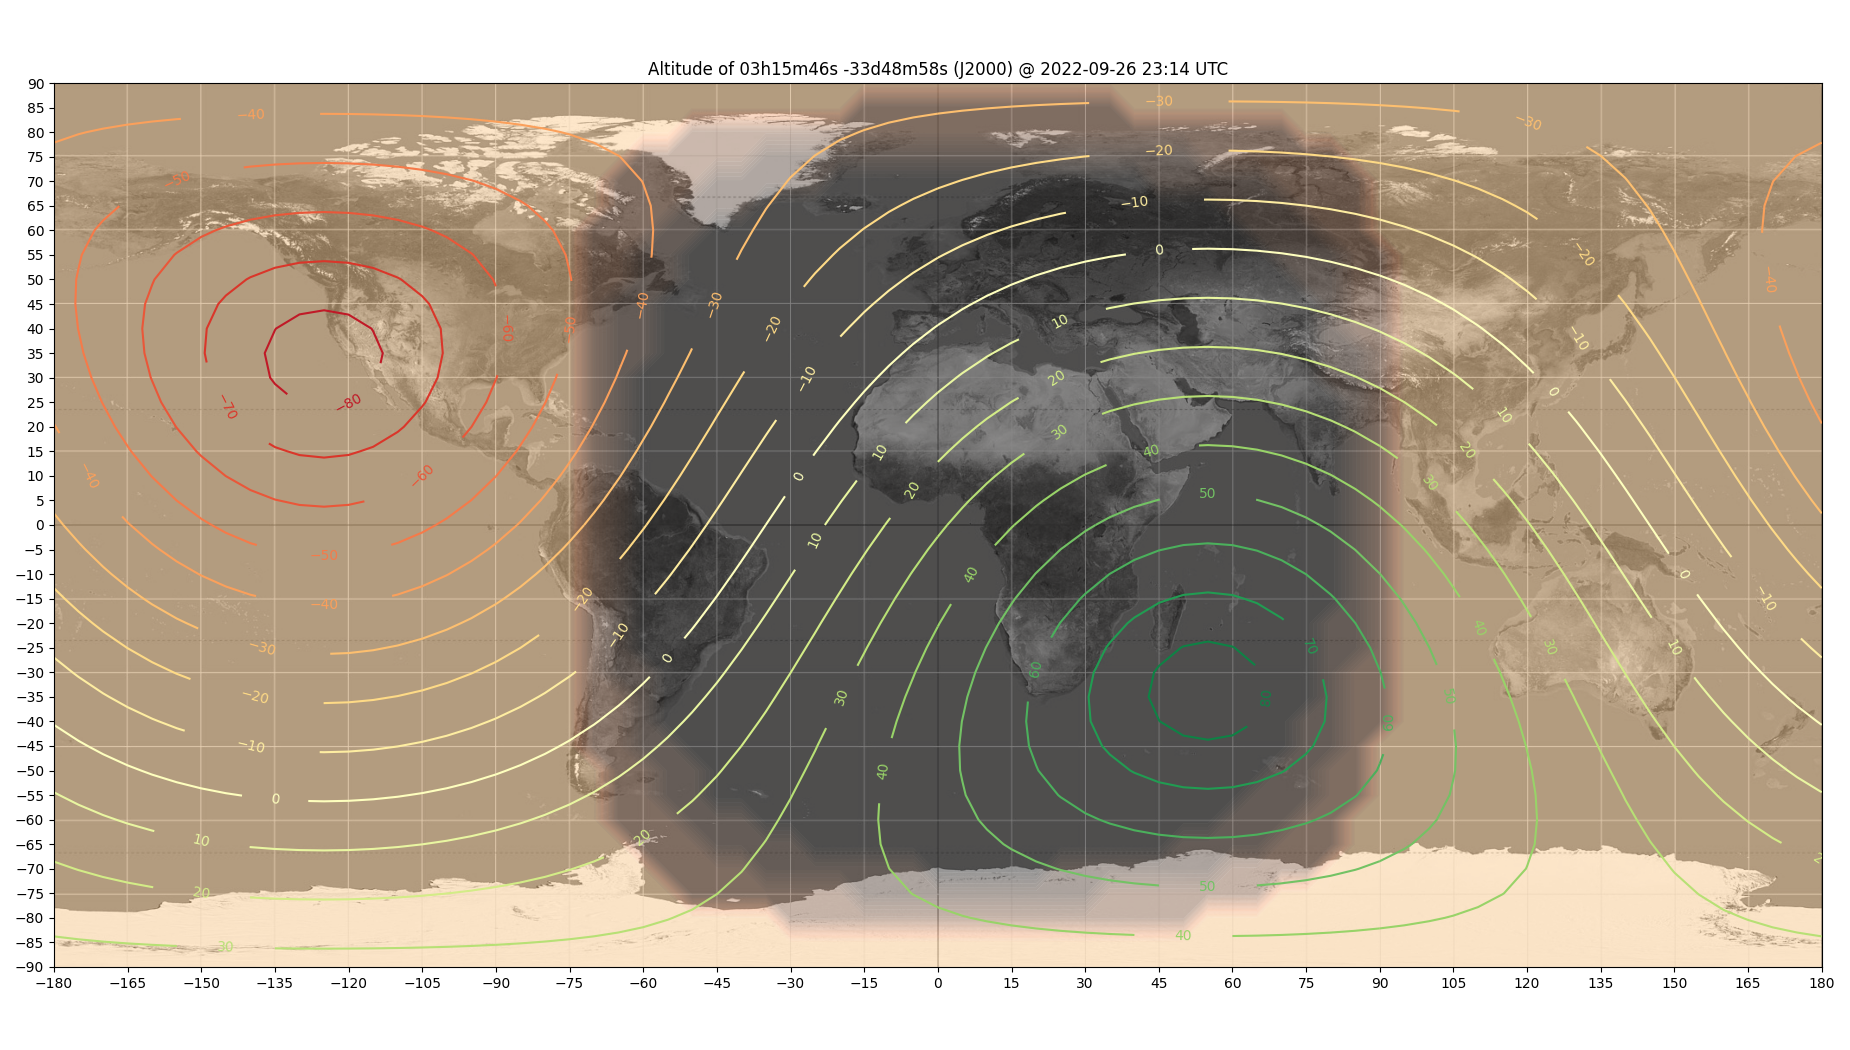
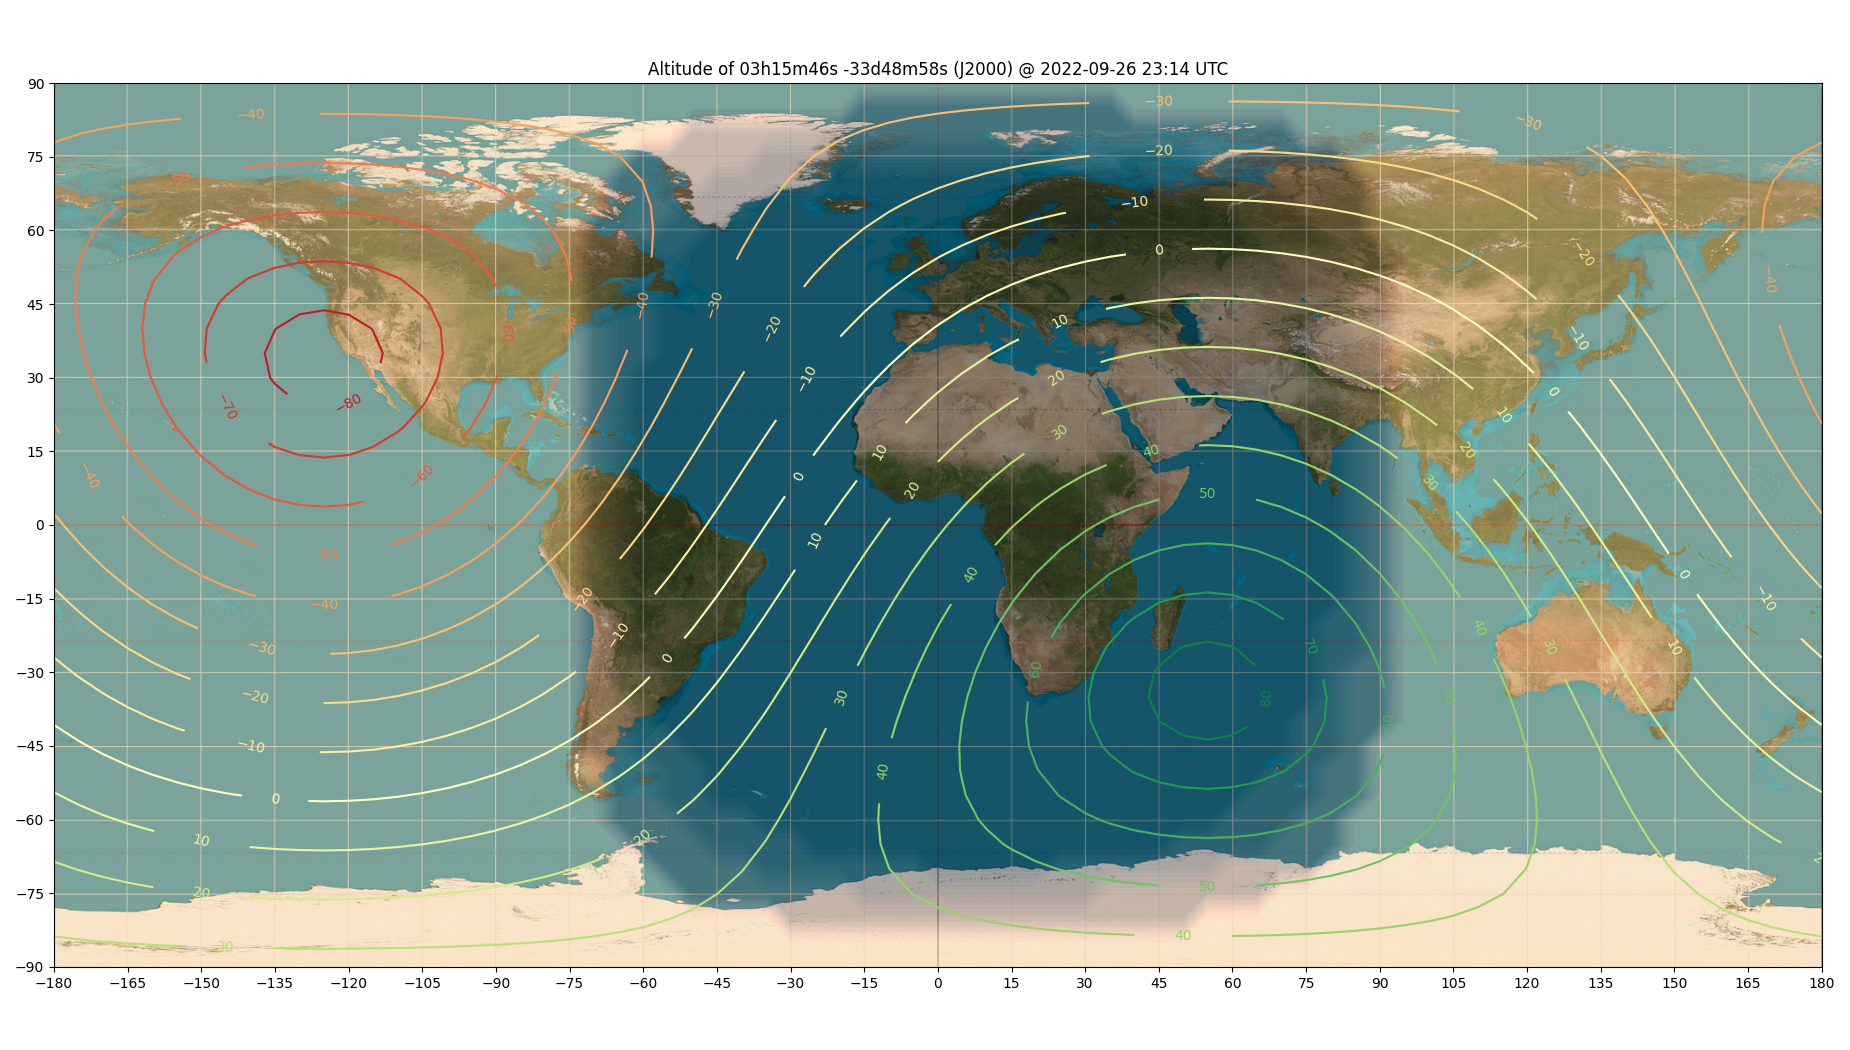
Fix yticks

diff --git a/main.py b/main.py
@@ -18,6 +18,7 @@ sunarr = []
 
 latrange = range(90, -91, -5)
 lonrange = range(0, 361, 5)
+
 rlonrange = range(-180, 181, 5)
 
 for lat in latrange:
@@ -56,7 +57,7 @@ plt.clabel(cs, inline=True, fontsize=10)
 plt.title(f"Altitude of {lonstr} {latstr} (J2000) @ {tstr} UTC")
 fig.set_size_inches(18.5, 10.5)
 plt.xticks(range(-180, 181, 15))
-plt.yticks(latrange)
+plt.yticks(range(90, -91, -15))
 plt.tight_layout()
 plt.savefig("plot.png")
 plt.show()
